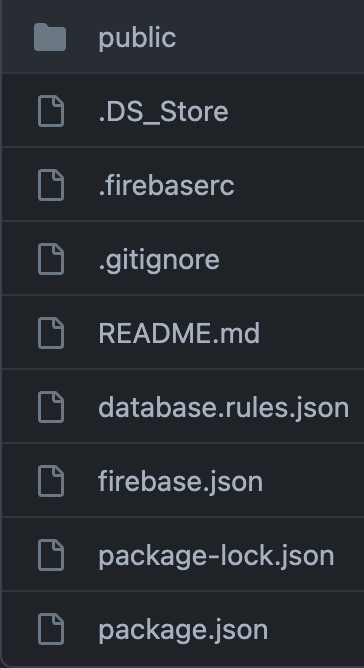
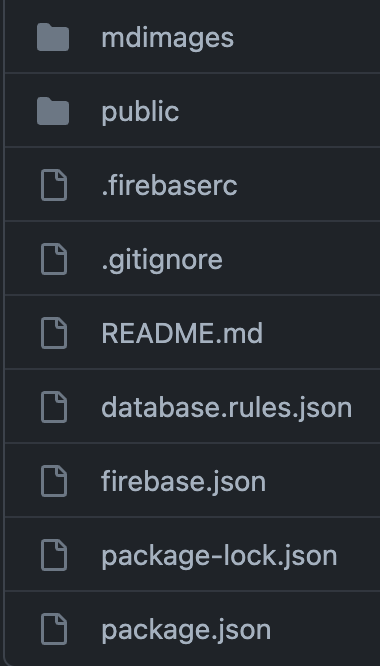
ready to explain each file

diff --git a/README.md b/README.md
@@ -118,7 +118,7 @@ function updateMenuItem(elementId, dataKey) {
 
 The following code is located near the bottom of contact.html. This page does not have firebase script. <br>
 
-The  <br>
+The 'sumbitForm' function is called when the 'submit' button is clicked in the 'CONNECT WITH US' card.<br>
 ```
 <script>
     function submitForm() {
@@ -155,16 +155,132 @@ The  <br>
 
 
 
+## uploadMenu.html
+
+The following code is located at the top of 'uploadMenu.html' in the head section. <br>
+
+The firebase imports are made and the firebase is configurated (similar to index.html). The 'auth' import allows for only authorized users to publish menu data. <br>
+```
+<script type="module">
+    //imports and configs
+    import { initializeApp } from "https://www.gstatic.com/firebasejs/10.6.0/firebase-app.js";
+    import { getFirestore, doc, setDoc } from "https://www.gstatic.com/firebasejs/10.6.0/firebase-firestore.js";
+    import { getAuth, signInWithEmailAndPassword } from "https://www.gstatic.com/firebasejs/10.6.0/firebase-auth.js";
+    const firebaseConfig = {
+        apiKey: "AIzaSyCH0Zyzj5tukPUZacOM_xJZk3wFLQIvgNw",
+        authDomain: "lunchbox-60fb5.firebaseapp.com",
+        databaseURL: "https://lunchbox-60fb5-default-rtdb.firebaseio.com",
+        projectId: "lunchbox-60fb5",
+        storageBucket: "lunchbox-60fb5.appspot.com",
+        messagingSenderId: "534903316915",
+        appId: "1:534903316915:web:e7b8e503540d234632ebc6",
+        measurementId: "G-TD5GSSYSSY"
+    };
+    const app = initializeApp(firebaseConfig);
+    const db = getFirestore(app);
+    const auth = getAuth();
+```
 
 
 
 
+This code section runs when the 'submit' button is pressed. The authentication is checked here, passing the email and password in the function. If authenticated, the values are taken from the input fields and are assigned to constant variables to be passed on to the firestore. The checkbox initializations check if the checkbox is checked, and if it is, it sends, 'closed', and if it is unchecked, it sends a blank string.<br>
+```
+//handle form submission
+function submitForm(event) {
+    event.preventDefault();
+    const email = document.getElementById('emailINPUT').value;
+    const password = document.getElementById('passwordINPUT').value;
+    signInWithEmailAndPassword(auth, email, password)
+    then((userCredential) => {
+        //get values from input fields
+        const dateINPUT1 = document.getElementById('dateINPUT1').value;
+        const entreeINPUT1 = document.getElementById('entreeINPUT1').value;
+        const soupINPUT1 = document.getElementById('soupINPUT1').value;
+        const saladINPUT1 = document.getElementById('saladINPUT1').value;
+        const sideINPUT1 = document.getElementById('sideINPUT1').value;
+        const dessertINPUT1 = document.getElementById('dessertINPUT1').value;
+                
+        const dateINPUT2 = document.getElementById('dateINPUT2').value;
+        const entreeINPUT2 = document.getElementById('entreeINPUT2').value;
+        const soupINPUT2 = document.getElementById('soupINPUT2').value;
+        const saladINPUT2 = document.getElementById('saladINPUT2').value;
+        const sideINPUT2 = document.getElementById('sideINPUT2').value;
+        const dessertINPUT2 = document.getElementById('dessertINPUT2').value;
+                
+        const dateINPUT3 = document.getElementById('dateINPUT3').value;
+        const entreeINPUT3 = document.getElementById('entreeINPUT3').value;
+        const soupINPUT3 = document.getElementById('soupINPUT3').value;
+        const saladINPUT3 = document.getElementById('saladINPUT3').value;
+        const sideINPUT3 = document.getElementById('sideINPUT3').value;
+        const dessertINPUT3 = document.getElementById('dessertINPUT3').value;
+        //checkbox initializations
+        const closedCHECKBOX1 = document.getElementById('closedCHECKBOX1');
+        const closedINPUT1 = closedCHECKBOX1.checked ? "closed" : " ";
+        const closedCHECKBOX2 = document.getElementById('closedCHECKBOX2');
+        const closedINPUT2 = closedCHECKBOX2.checked ? "closed" : " ";
+        const closedCHECKBOX3 = document.getElementById('closedCHECKBOX3');
+        const closedINPUT3 = closedCHECKBOX3.checked ? "closed" : " ";
+```
 
 
 
+This code assigns the constant variables to a data structure in the firestore. <br>
+```
+//construct menu data object
+const menuData = {
+    tuesday_date: dateINPUT1,
+    tuesday_entree: entreeINPUT1,
+    tuesday_soup: soupINPUT1,
+    tuesday_salad: saladINPUT1,
+    tuesday_side: sideINPUT1,
+    tuesday_dessert: dessertINPUT1,
+    tuesday_closed: closedINPUT1,
+    wednesday_date: dateINPUT2,
+    wednesday_entree: entreeINPUT2,
+    wednesday_soup: soupINPUT2,
+    wednesday_salad: saladINPUT2,
+    wednesday_side: sideINPUT2,
+    wednesday_dessert: dessertINPUT2,
+    wednesday_closed: closedINPUT2,
+    thursday_date: dateINPUT3,
+    thursday_entree: entreeINPUT3,
+    thursday_soup: soupINPUT3,
+    thursday_salad: saladINPUT3,
+    thursday_side: sideINPUT3,
+    thursday_dessert: dessertINPUT3,
+    thursday_closed: closedINPUT3
+};
+```
+
+
+This data can be seen in the firebase console as seen below: <br>
+<img src="mdimages/firestoreConstruct.png" height="300px" width="600px"> <br>
 
 
 
+This code is at the bottom of the script tag and it handles the checks of the information that the user inputs. The alerts are shown at the top of the screen and the console messages can be seen in the web console after inspecting the page.  <br>
+```
+//pushes up new data - error catches and alerts
+setDoc(doc(db, "menu", "menuDocument"), menuData)
+.then(() => {
+    console.log("Menu published successfully!");
+    alert("Menu published successfully!");
+})
+.catch((error) => {
+    console.error("Error publishing menu: ", error);
+    alert("Error publishing menu.");
+});
+})
+.catch((error) => {
+    console.error("Authentication failed: ", error);
+    alert("Authentication failed.");
+});
+}
+const submitBTN = document.getElementById("submitBTN");
+submitBTN.addEventListener("click", submitForm);
+</script>
+```
 
 
 
@@ -178,9 +294,8 @@ The  <br>
 
 ### Inside Public Folder
 The 'public' folder contains the HTML files, as well as the CSS file. <br>
-The 'content' folder contains the images used within the website. <br>
-The 'DS_Store' is a file that can be seen throughout the project and can be ignored.<br>
-<img src="mdimages/publicFileList.png" height="225px" width="140px"> 
+The 'content' folder contains the images used within the website. <br> <br>
+<img src="mdimages/publicFileList.png" height="225px" width="180px"> 
 
 
 
